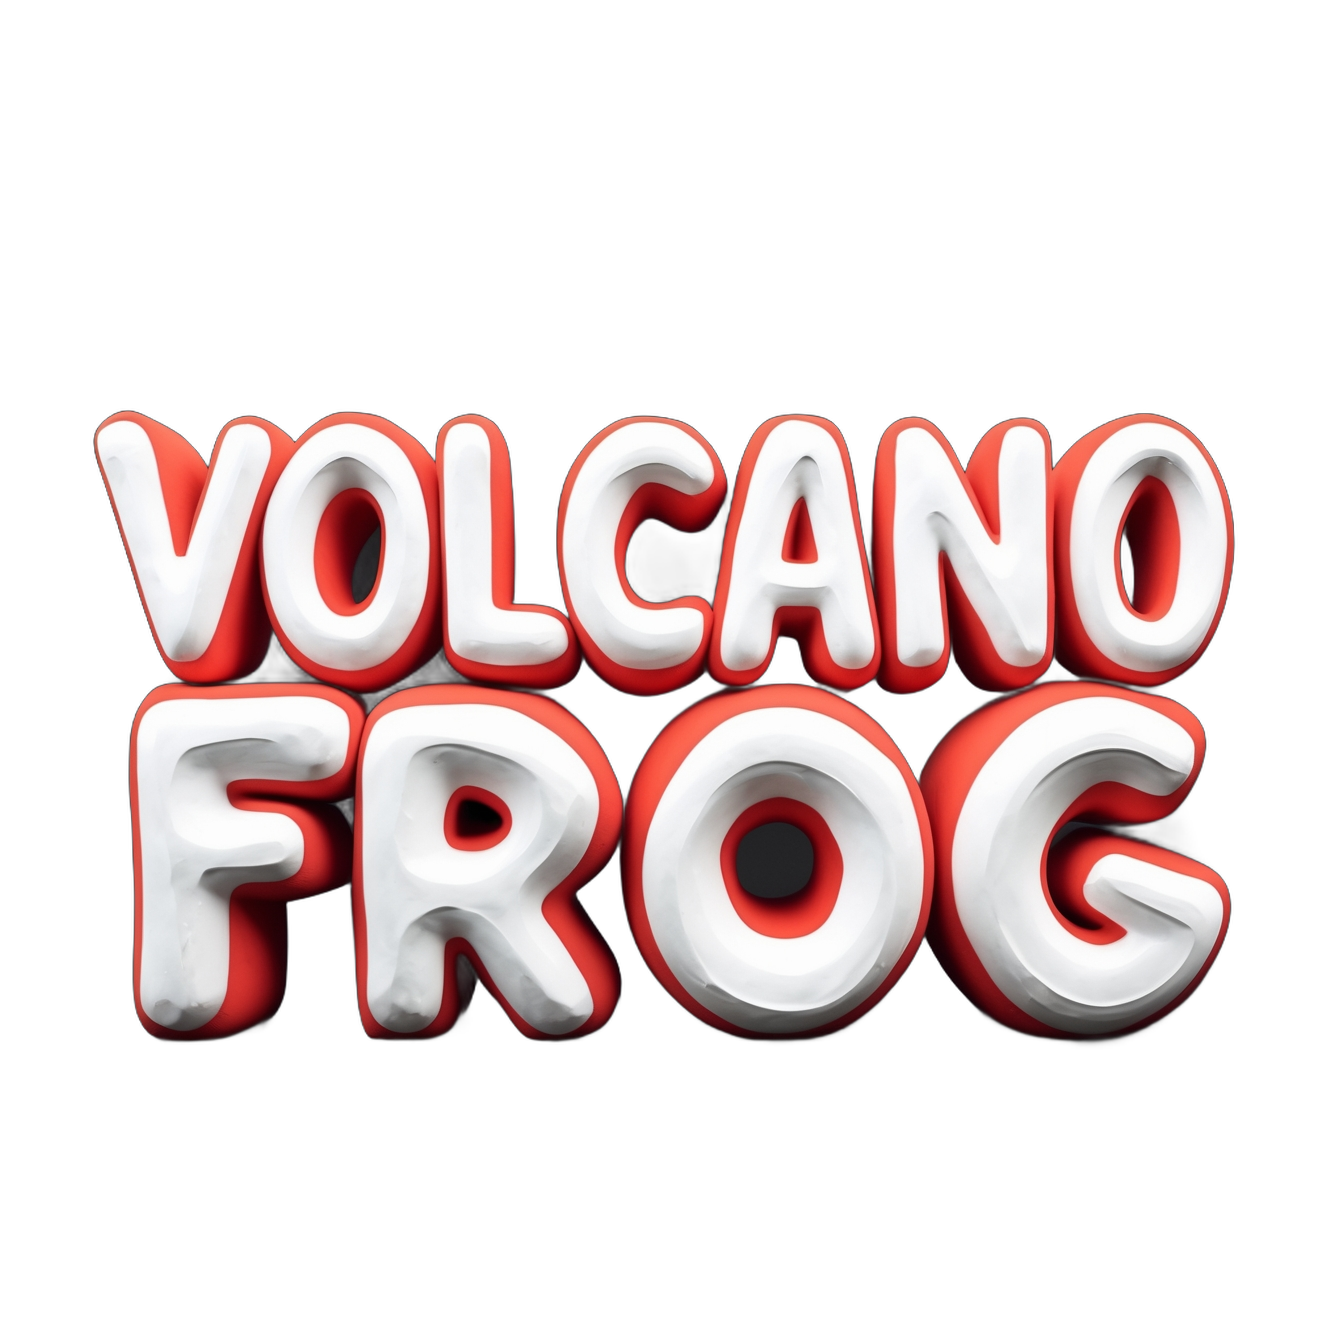
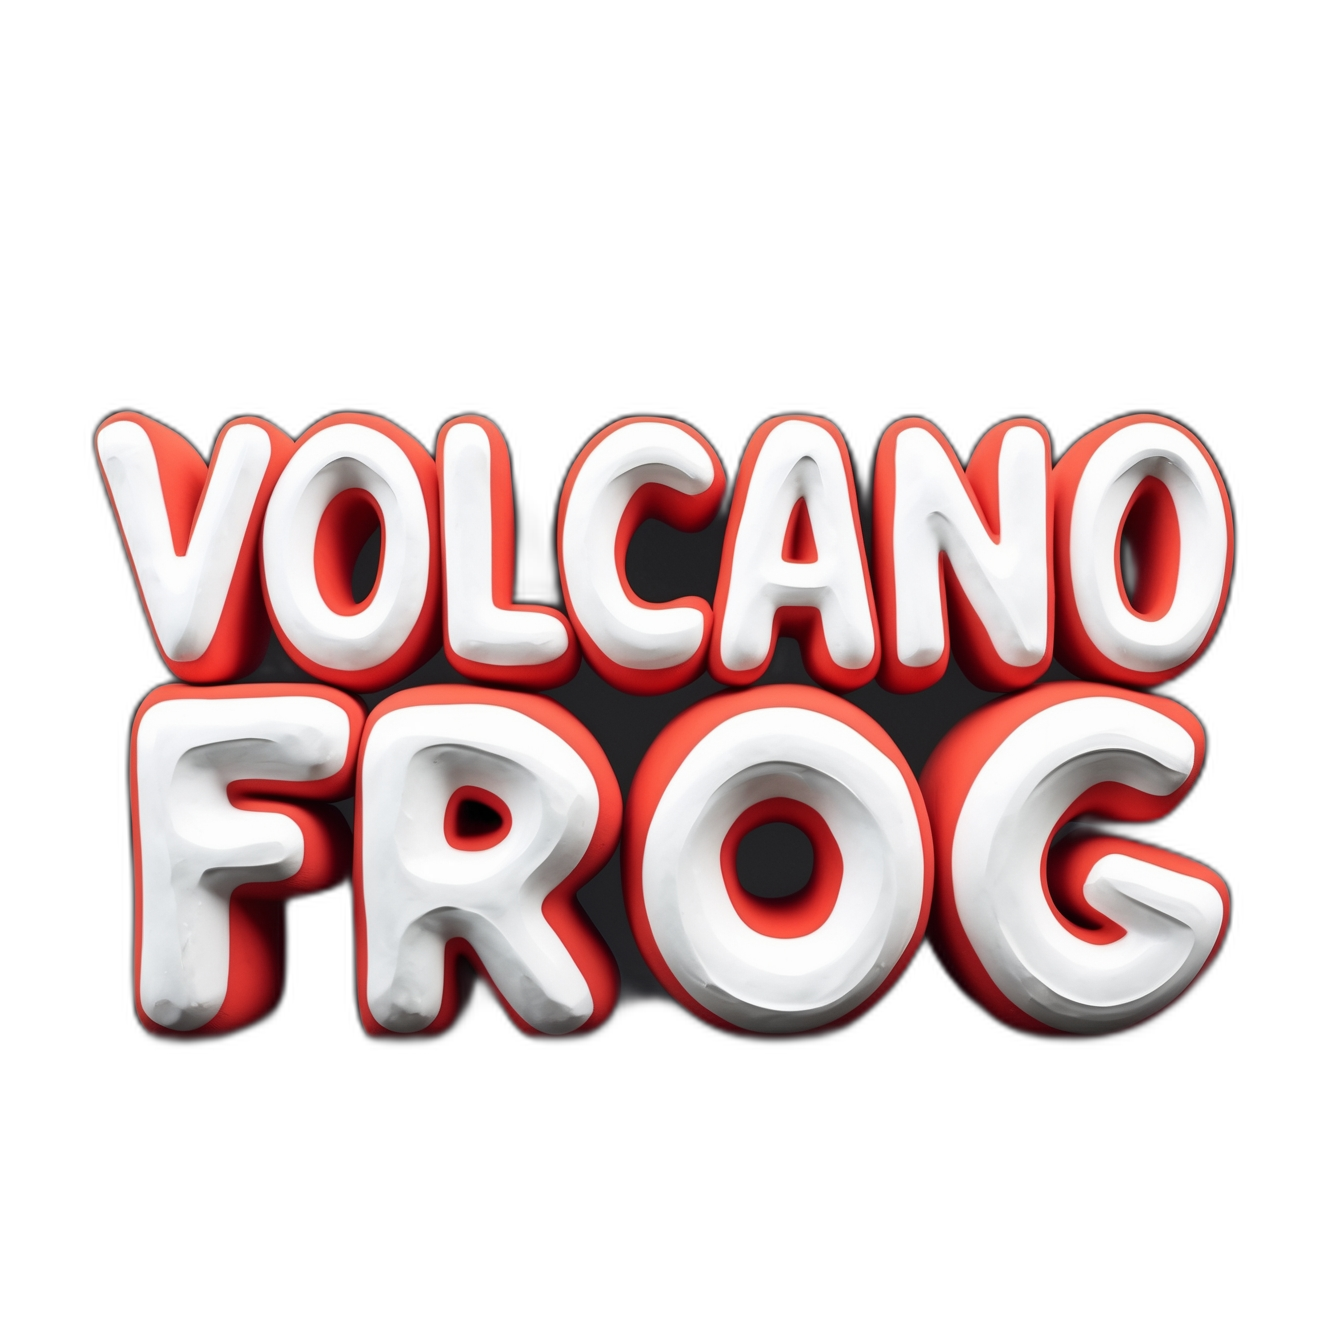
Redesign access code screen, kill stale SW, reduce reveal delay
- PasswordGate: hero image with felt frog scene, title overlay,
  mandarin character blocks (火山蛙) with white backgrounds
- Replace SW with self-destructing kill-SW via Functions middleware
  to clear stale caches across all devices
- Remove SW registration from layout, unregister any existing SW
- Reduce reveal game "Get ready!" delay from 1.5s to 0.7s
- Add Functions middleware for cache-control on sw.js and HTML

diff --git a/src/lib/components/PasswordGate.svelte b/src/lib/components/PasswordGate.svelte
@@ -11,17 +11,21 @@
   let error = $state(false)
   let checking = $state(false)
 
-  const isDev = import.meta.env.DEV
+  const isDev = false // import.meta.env.DEV
+
+  const zhBlocks = [
+    { char: '火', colour: '#E53935' },
+    { char: '山', colour: '#2E7D32' },
+    { char: '蛙', colour: '#1565C0' },
+  ]
 
   onMount(async () => {
-    // Skip auth gate in dev mode (no Cloudflare Functions available)
     if (isDev) {
       authed = true
       loading = false
       return
     }
 
-    // Check if we have a valid session cookie (server-side)
     try {
       const res = await fetch(`${base}/auth/check`, { credentials: 'same-origin' })
       const data = await res.json()
@@ -65,7 +69,7 @@
 {#if loading}
   <div class="backdrop">
     <div class="card">
-      <div class="logo">Volcano Frog</div>
+      <img src="{base}/images/zh-transparent/objects/vf-title.png" alt="Volcano Frog" class="title-img" />
       <p class="subtitle">Loading...</p>
     </div>
   </div>
@@ -74,7 +78,11 @@
 {:else}
   <div class="backdrop">
     <form class="card" onsubmit={handleSubmit}>
-      <div class="logo">Volcano Frog</div>
+      <div class="hero">
+        <img src="{base}/images/zh-transparent/objects/frog-felt.jpg" alt="Volcano Frog mascot" class="frog-img" />
+        <img src="{base}/images/zh-transparent/objects/vf-title.png" alt="Volcano Frog" class="title-img" />
+      </div>
+
       <p class="subtitle">Enter access code to continue</p>
       <input
         type="password"
@@ -89,6 +97,12 @@
       <button type="submit" disabled={checking || !input}>
         {checking ? 'Checking...' : 'Enter'}
       </button>
+
+      <div class="zh-blocks">
+        {#each zhBlocks as block}
+          <span class="zh-block" style="border-color: {block.colour}; color: {block.colour}">{block.char}</span>
+        {/each}
+      </div>
     </form>
   </div>
 {/if}
@@ -102,6 +116,7 @@
     align-items: center;
     justify-content: center;
     z-index: 9999;
+    overflow-y: auto;
   }
 
   .card {
@@ -114,11 +129,30 @@
     width: 90%;
   }
 
-  .logo {
-    font-size: 28px;
-    font-weight: 700;
-    color: #f1c40f;
-    letter-spacing: -0.5px;
+  .hero {
+    position: relative;
+    width: clamp(260px, 85vw, 340px);
+    display: flex;
+    align-items: center;
+    justify-content: center;
+  }
+
+  .frog-img {
+    width: 100%;
+    height: auto;
+    object-fit: cover;
+    border-radius: 20px;
+  }
+
+  .title-img {
+    position: absolute;
+    top: -40px;
+    left: 50%;
+    transform: translateX(-50%);
+    width: 42%;
+    height: auto;
+    object-fit: contain;
+    filter: drop-shadow(0 2px 8px rgba(0,0,0,0.7));
   }
 
   .subtitle {
@@ -166,5 +200,24 @@
   button:disabled {
     opacity: 0.5;
     cursor: default;
+  }
+
+  .zh-blocks {
+    display: flex;
+    gap: 10px;
+    margin-top: 8px;
+  }
+
+  .zh-block {
+    width: 48px;
+    height: 48px;
+    display: flex;
+    align-items: center;
+    justify-content: center;
+    font-size: 1.6rem;
+    font-weight: 900;
+    border: 3px solid;
+    border-radius: 12px;
+    background: #fff;
   }
 </style>

diff --git a/src/routes/+layout.svelte b/src/routes/+layout.svelte
@@ -8,26 +8,9 @@
   onMount(() => {
     if (!('serviceWorker' in navigator)) return
 
-    navigator.serviceWorker.register('/volcanofrog/sw.js', { scope: '/volcanofrog/', updateViaCache: 'none' })
-      .then(reg => {
-        // Check for updates every 60s
-        setInterval(() => reg.update(), 60_000)
-
-        reg.addEventListener('updatefound', () => {
-          const newSw = reg.installing
-          if (!newSw) return
-          newSw.addEventListener('statechange', () => {
-            // New SW activated and there's already a controlling SW (i.e. this is an update)
-            if (newSw.state === 'activated' && navigator.serviceWorker.controller) {
-              window.location.reload()
-            }
-          })
-        })
-      })
-
-    // If a new SW takes over while page is open, reload to get fresh assets
-    navigator.serviceWorker.addEventListener('controllerchange', () => {
-      window.location.reload()
+    // Unregister any existing SW — we no longer use a service worker
+    navigator.serviceWorker.getRegistrations().then(regs => {
+      regs.forEach(r => r.unregister())
     })
   })
 </script>

diff --git a/functions/volcanofrog/sw.js.ts b/functions/volcanofrog/sw.js.ts
@@ -1,0 +1,26 @@
+/**
+ * Serves a self-unregistering SW that clears caches and dies.
+ * No reload — just clean up and go away.
+ */
+
+const KILL_SW = `
+self.addEventListener('install', function() { self.skipWaiting(); });
+self.addEventListener('activate', function(event) {
+  event.waitUntil(
+    caches.keys().then(function(keys) {
+      return Promise.all(keys.map(function(k) { return caches.delete(k); }));
+    }).then(function() {
+      return self.registration.unregister();
+    })
+  );
+});
+`
+
+export const onRequest: PagesFunction = async () => {
+  return new Response(KILL_SW, {
+    headers: {
+      'Content-Type': 'application/javascript',
+      'Cache-Control': 'no-cache, no-store, must-revalidate',
+    },
+  })
+}

diff --git a/functions/volcanofrog/_middleware.ts b/functions/volcanofrog/_middleware.ts
@@ -1,0 +1,18 @@
+/**
+ * Middleware — runs on ALL /volcanofrog/* requests before static assets.
+ * Forces no-cache on sw.js and HTML so browsers always get fresh versions.
+ */
+export const onRequest: PagesFunction = async ({ request, next }) => {
+  const response = await next()
+  const url = new URL(request.url)
+  const path = url.pathname
+
+  // Force no-cache on service worker and HTML entry point
+  if (path.endsWith('/sw.js') || path.endsWith('/volcanofrog/') || path.endsWith('/volcanofrog')) {
+    const newResponse = new Response(response.body, response)
+    newResponse.headers.set('Cache-Control', 'no-cache, no-store, must-revalidate')
+    return newResponse
+  }
+
+  return response
+}

diff --git a/src/lib/components/games/RevealGame.svelte b/src/lib/components/games/RevealGame.svelte
@@ -25,7 +25,7 @@
     ensureAudioContext()
 
     // "Get ready!" pause
-    await delay(1500)
+    await delay(700)
     if (!game.activeWord) return // word changed during pause
 
     // Reveal the character
